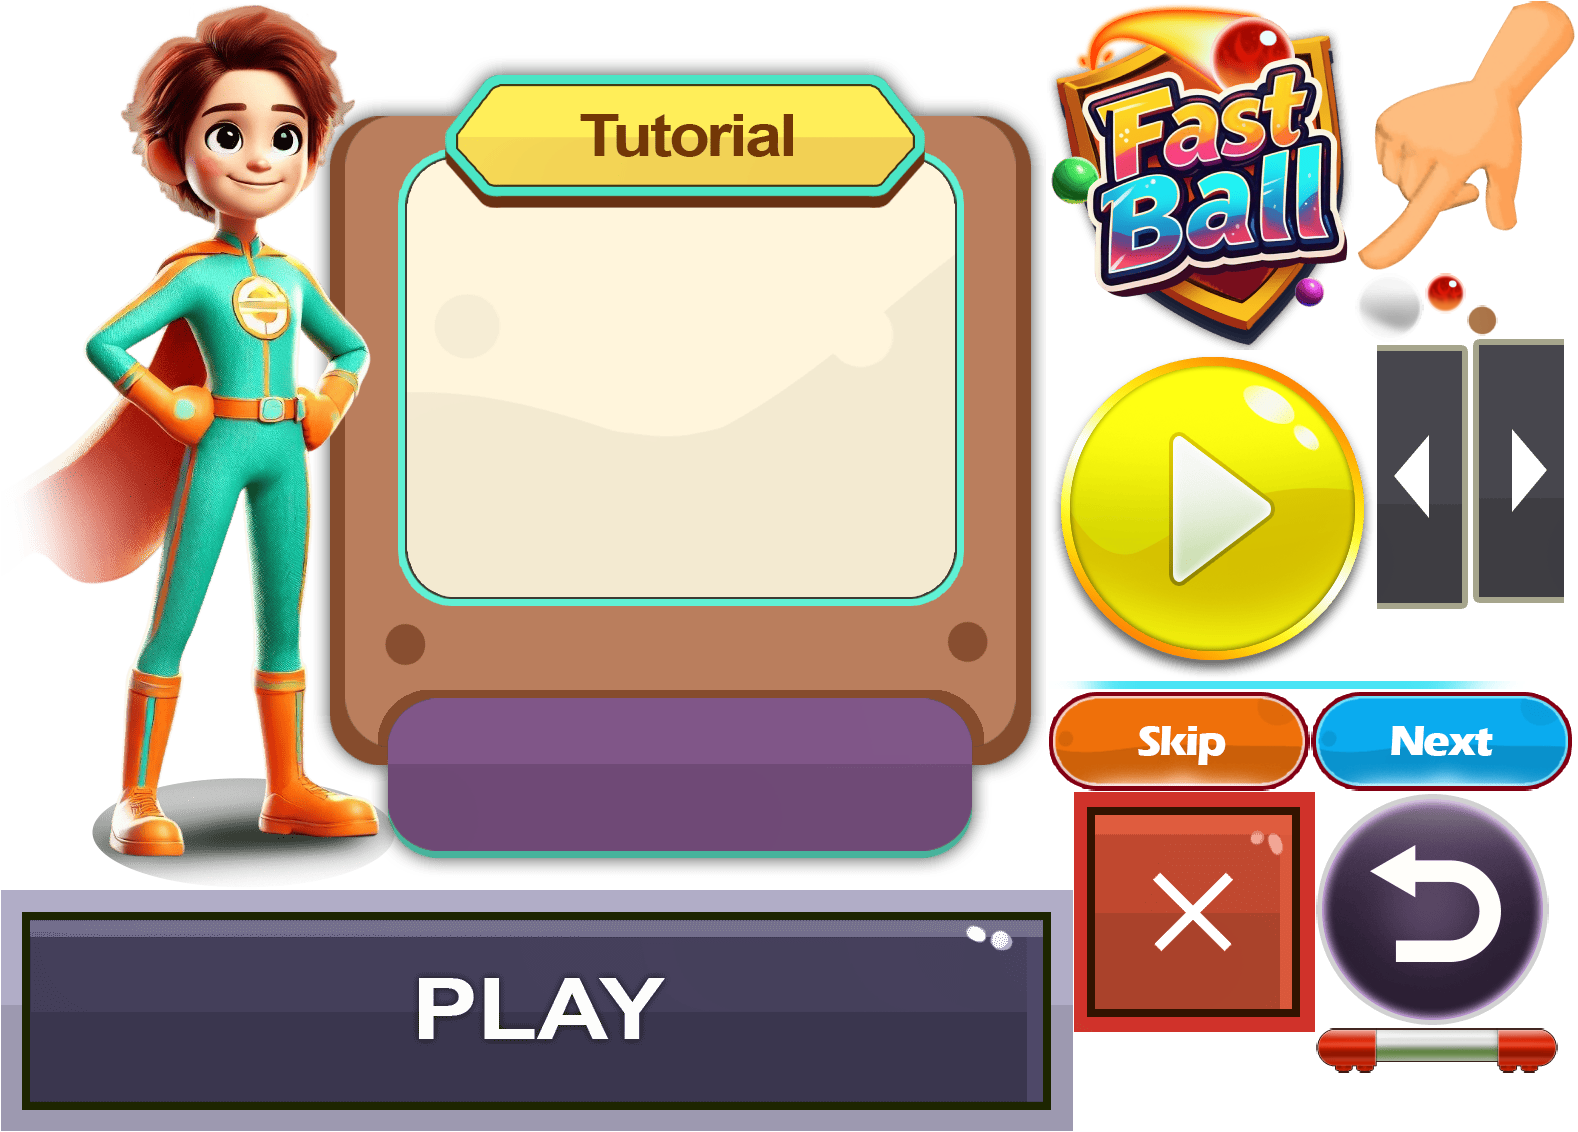
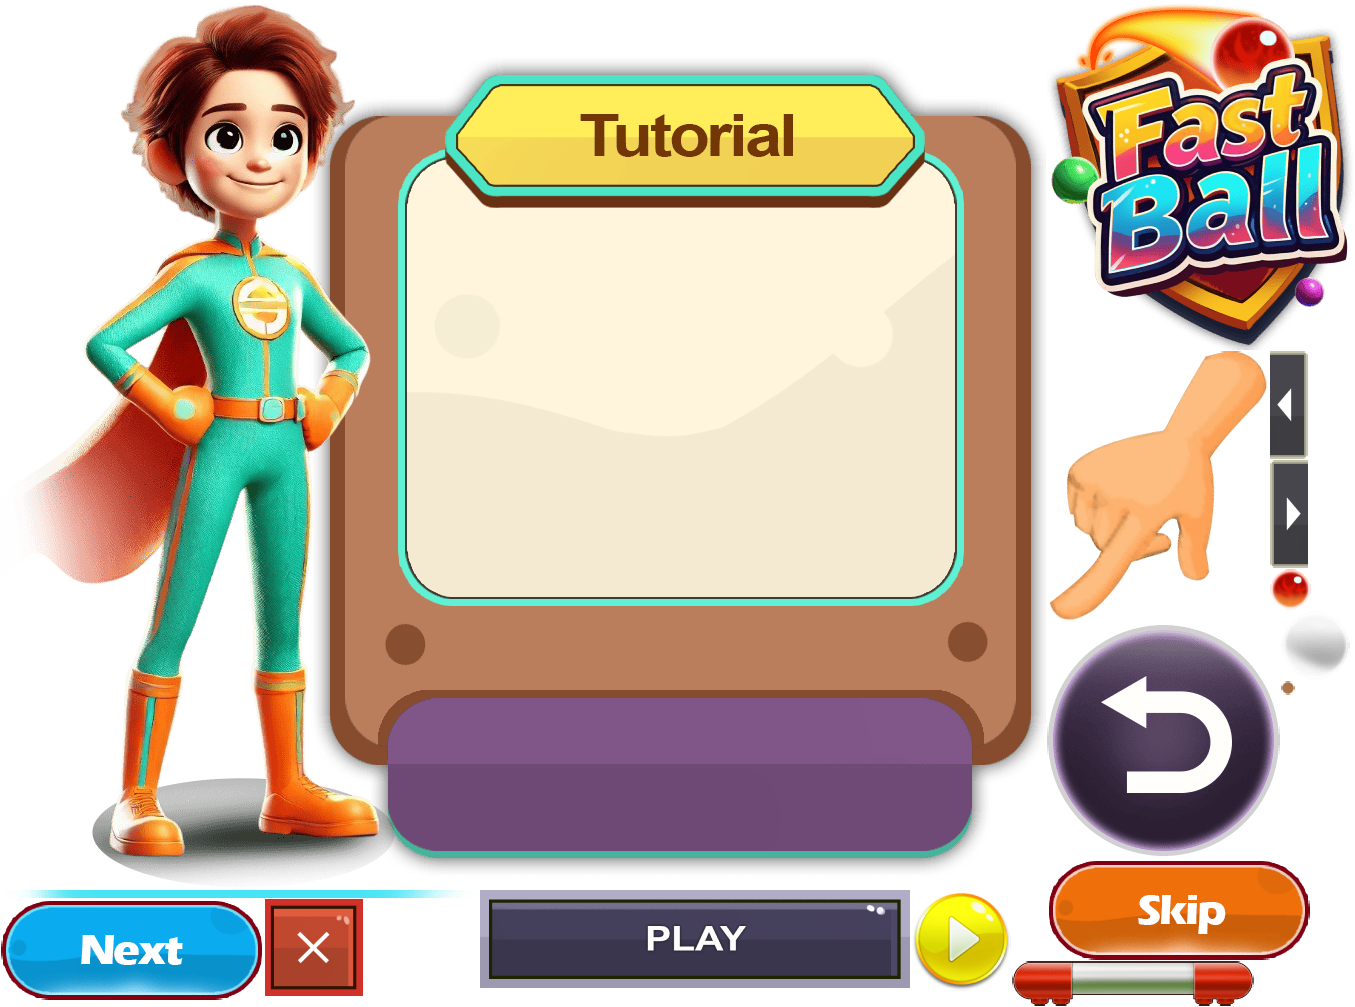
resized assets

diff --git a/objects/intro.js b/objects/intro.js
@@ -30,10 +30,10 @@ export class Intro extends Phaser.GameObjects.Container {
             );
         this.graphicsGrp.add(this.graphics);
 
-        this.left = this.scene.add.sprite(0, -250, "sheet", "tutorial/left").setOrigin(0.5).setScale(0.4);
-        this.right = this.scene.add.sprite(0, -250, "sheet", "tutorial/right").setOrigin(0.5).setScale(0.4);
-        this.playBtn = this.scene.add.sprite(0, 0, "sheet", "tutorial/play").setOrigin(0.5).setScale(0.4);
-        this.closeBtn = this.scene.add.sprite(0, 0, "sheet", "tutorial/close").setOrigin(0.5).setScale(0.4);
+        this.left = this.scene.add.sprite(0, -250, "sheet", "tutorial/left").setOrigin(0.5)
+        this.right = this.scene.add.sprite(0, -250, "sheet", "tutorial/right").setOrigin(0.5)
+        this.playBtn = this.scene.add.sprite(0, 0, "sheet", "tutorial/play").setOrigin(0.5)
+        this.closeBtn = this.scene.add.sprite(0, 0, "sheet", "tutorial/close").setOrigin(0.5)
 
         this.add([this.left, this.right, this.playBtn, this.closeBtn]);
 

diff --git a/objects/tut1.js b/objects/tut1.js
@@ -17,7 +17,6 @@ export class Tut1 extends Phaser.GameObjects.Container {
     init() {
         this.frame = this.scene.add.sprite(0, -50, "frame");
         this.frame.setOrigin(0.5);
-        this.frame.setScale(.4);
         this.add(this.frame);
 
         let xPos = [-17, 1.7, 21];
@@ -26,7 +25,6 @@ export class Tut1 extends Phaser.GameObjects.Container {
         for (let i = 0; i < xPos.length; i++) {
             let dot = this.scene.add.sprite(xPos[i], yPos[i] + 200, "sheet", "tutorial/white")
                 .setOrigin(0.5)
-                .setScale(0.4)
             this.add(dot);
 
             if (i == 0) {

diff --git a/objects/tut2.js b/objects/tut2.js
@@ -17,7 +17,6 @@ export class Tut2 extends Phaser.GameObjects.Container {
     init() {
         this.frame = this.scene.add.sprite(0, -50, "frame");
         this.frame.setOrigin(0.5);
-        this.frame.setScale(.4);
         this.add(this.frame);
 
         let xPos = [-17, 1.7, 21];
@@ -26,7 +25,6 @@ export class Tut2 extends Phaser.GameObjects.Container {
         for (let i = 0; i < xPos.length; i++) {
             let dot = this.scene.add.sprite(xPos[i], yPos[i] + 200, "sheet", "tutorial/white")
                 .setOrigin(0.5)
-                .setScale(0.4)
             this.add(dot);
 
             if (i == 1) {

diff --git a/objects/tut3.js b/objects/tut3.js
@@ -17,7 +17,6 @@ export class Tut3 extends Phaser.GameObjects.Container {
     init() {
         this.frame = this.scene.add.sprite(0, -50, "frame");
         this.frame.setOrigin(0.5);
-        this.frame.setScale(.4);
         this.add(this.frame);
 
         let xPos = [-17, 1.7, 21];
@@ -26,7 +25,6 @@ export class Tut3 extends Phaser.GameObjects.Container {
         for (let i = 0; i < xPos.length; i++) {
             let dot = this.scene.add.sprite(xPos[i], yPos[i] + 200, "sheet", "tutorial/white")
                 .setOrigin(0.5)
-                .setScale(0.4)
             this.add(dot);
 
             if (i == 2) {

diff --git a/objects/cta.js b/objects/cta.js
@@ -57,7 +57,6 @@ export class CTA extends Phaser.GameObjects.Container {
 
         this.playBtn = this.scene.add.sprite(0, 320, "sheet", 'play');
         this.playBtn.setOrigin(0.5);
-        this.playBtn.setScale(0.3);
         this.add(this.playBtn);
 
         this.playBtn.setInteractive();
